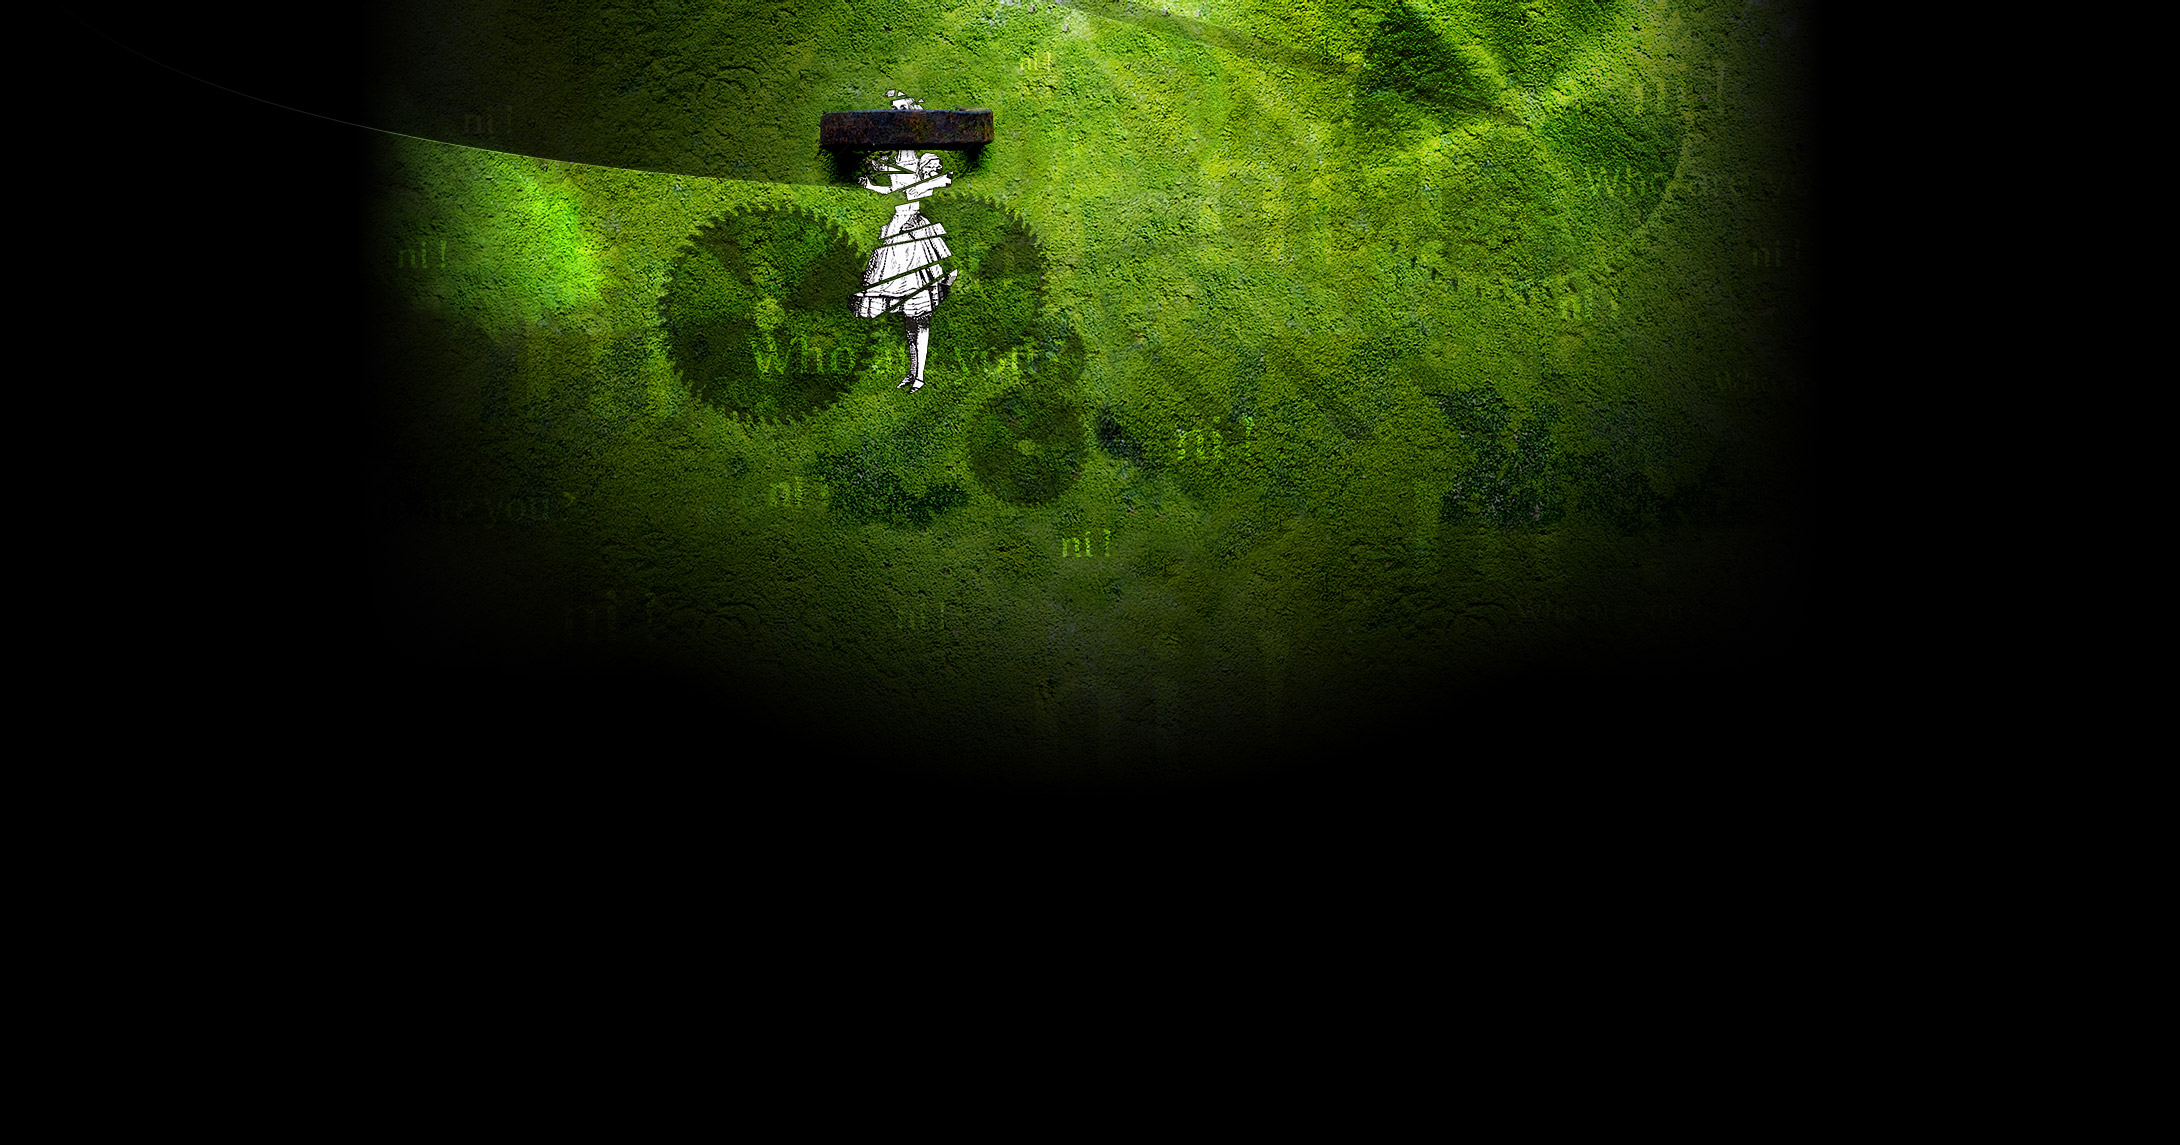
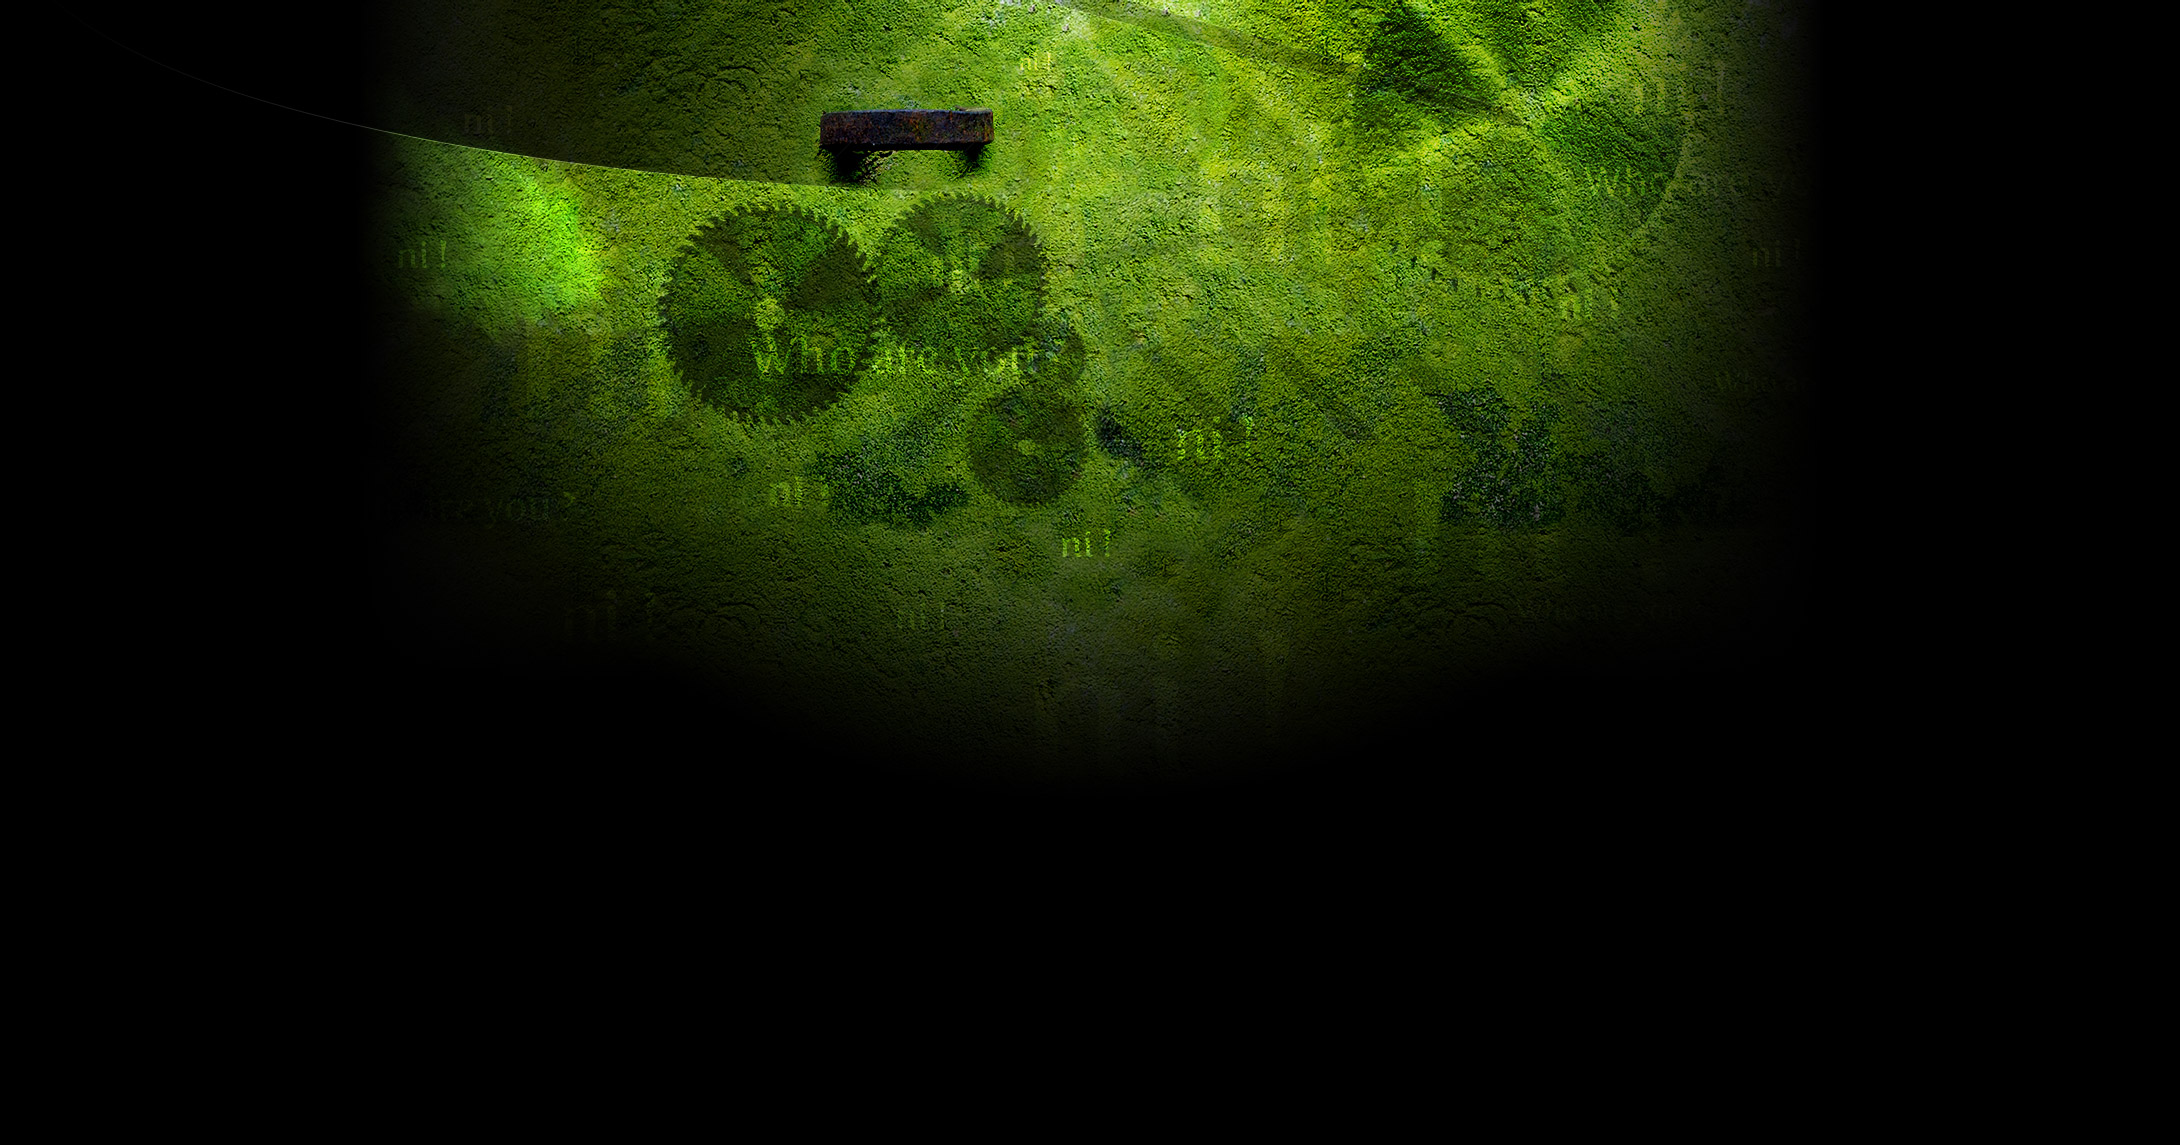
Transition Alice done !

Changed region(s): [[0.3743, 0.1223, 0.4367, 0.3362], [0.4055, 0.0611, 0.4367, 0.0917]]

diff --git a/web/css/style.css b/web/css/style.css
@@ -66,6 +66,13 @@ h5 {
   margin: auto; 
 }
 
+.quicktrans {
+  -webkit-transition: all .25s ease-in-out;
+  -moz-transition: all .25s ease-in-out;
+  -o-transition: all .25s ease-in-out;
+  transition: all .25s ease-in-out;
+}
+
 /**********/
 /** MENU **/
 /**********/
@@ -78,10 +85,6 @@ h5 {
   font-family: Georgia, "Times New Roman", Times, serif;
   font-size: 21px;
   list-style: none;
-  -webkit-transition: all .25s ease-in-out; 
-  -moz-transition: all .25s ease-in-out; 
-  -o-transition: all .25s ease-in-out; 
-  transition: all .25s ease-in-out;
 }
 
 #ni_menu:hover {
@@ -171,114 +174,182 @@ color: #c6ec8e;
 /**** TOP ****/
 /*************/
 
-/*** GIRL ***/
+/*** ALICE ***/
+
+#alice {
+  height: 340px;
+  width: 200px;
+  position: absolute;
+  top: 20px;
+  left: 200px;
+  overflow: visible;
+}
 
 .n1, .n2, .n3, .n4, .n5, .n6, .n7, .n8, .n9, .n10, .n11, .n12, .n13 {
   position: absolute;
+  -webkit-transition: all 2s ease-out;
+  -moz-transition: all 2s ease-out;
+  -o-transition: all 2s ease-out;
+  transition: all 2s ease-out;
 }
 
 .n1 {
   width: 17px;
   height: 12px;
   background-image: url('../imgs/alice/1.png');
-  top: 27px;
-  left: 288px;
+  top: 7px;
+  left: 88px;
 }
 
 .n2 {
   width: 12px;
   height: 12px;
   background-image: url('../imgs/alice/2.png');
-  top: 25px;
-  left: 306px;
+  top: 5px;
+  left: 106px;
 }
 
 .n3 {
   width: 44px;
   height: 19px;
   background-image: url('../imgs/alice/3.png');
-  top: 35px;
-  left: 296px;
+  top: 15px;
+  left: 96px;
 }
 
 .n4 {
   width: 13px;
   height: 7px;
   background-image: url('../imgs/alice/4.png');
-  top: 35px;
-  left: 323px;
+  top: 15px;
+  left: 123px;
 }
 
 .n5 {
   width: 15px;
   height: 11px;
   background-image: url('../imgs/alice/5.png');
-  top: 93px;
-  left: 284px;
+  top: 73px;
+  left: 84px;
 }
 
 .n6 {
   width: 100px;
   height: 61px;
   background-image: url('../imgs/alice/6.png');
-  top: 79px;
-  left: 254px;
+  top: 59px;
+  left: 54px;
 }
 
 .n7 {
   width: 46px;
   height: 15px;
   background-image: url('../imgs/alice/7.png');
-  top: 97px;
-  left: 266px;
+  top: 77px;
+  left: 66px;
 }
 
 .n8 {
   width: 78px;
   height: 38px;
   background-image: url('../imgs/alice/8.png');
-  top: 107px;
-  left: 305px;
+  top: 87px;
+  left: 105px;
 }
 
 .n9 {
   width: 76px;
   height: 47px;
   background-image: url('../imgs/alice/9.png');
-  top: 141px;
-  left: 267px;
+  top: 121px;
+  left: 67px;
 }
 
 .n10 {
   width: 116px;
   height: 39px;
   background-image: url('../imgs/alice/10.png');
-  top: 158px;
-  left: 255px;
+  top: 138px;
+  left: 55px;
 }
 
 .n11 {
   width: 123px;
   height: 66px;
   background-image: url('../imgs/alice/11.png');
-  top: 178px;
-  left: 246px;
+  top: 158px;
+  left: 46px;
 }
 
 .n12 {
   width: 123px;
   height: 80px;
   background-image: url('../imgs/alice/12.png');
-  top: 206px;
-  left: 232px;
+  top: 186px;
+  left: 32px;
 }
 
 .n13 {
   width: 120px;
   height: 152px;
   background-image: url('../imgs/alice/13.png');
-  top: 203px;
-  left: 265px;
+  top: 183px;
+  left: 65px;
+}
+
+#alice.eclatee .n1 {
+  top: -13px;
+  left: -25px;
+}
+
+#alice.eclatee .n2 {
+  top: -22px;
+  left: 156px;
+}
+
+#alice.eclatee .n4 {
+  top: 0px;
+  left: 190px;
+}
+
+#alice.eclatee .n5 {
+  top: 103px;
+  left: 0px;
+}
+
+#alice.eclatee .n7 {
+  top: 58px;
+  left: -47px;
+}
+
+#alice.eclatee .n8 {
+  top: 61px;
+  left: 244px;
+}
+
+#alice.eclatee .n9 {
+  top: 176px;
+  left: -162px;
+}
+
+#alice.eclatee .n10 {
+  top: 117px;
+  left: 143px;
+}
+
+#alice.eclatee .n11 {
+  top: 202px;
+  left: -86px;
+}
+
+#alice.eclatee .n12 {
+  top: 115px;
+  left: 268px;
+}
+
+#alice.eclatee .n13 {
+  top: 280px;
+  left: 14px;
 }
 
 /************/

diff --git a/apps/frontend/templates/layout.php b/apps/frontend/templates/layout.php
@@ -49,7 +49,7 @@
 
   <?php include_partial('a/globalTools') ?>
 
-  <ul id="ni_menu">
+  <ul id="ni_menu" class="quicktrans">
 
     <li class="itm_side"></li>
     <li class="itm_cont"><a href="/"><span class="txt_menu_effect itm1">accueil</span><span class="txt_white">.</span></a></li>
@@ -63,9 +63,11 @@
 
   <div id="top_wrapper">
 
+      <div id="alice">
       <div class="n1"></div><div class="n2"></div><div class="n3"></div><div class="n4"></div><div class="n5"></div>
           <div class="n6"></div><div class="n7"></div><div class="n8"></div><div class="n9"></div><div class="n10"></div>
           <div class="n11"></div><div class="n12"></div><div class="n13"></div>
+      </div>
 
   	<div id="ni_logo"></div>
 
